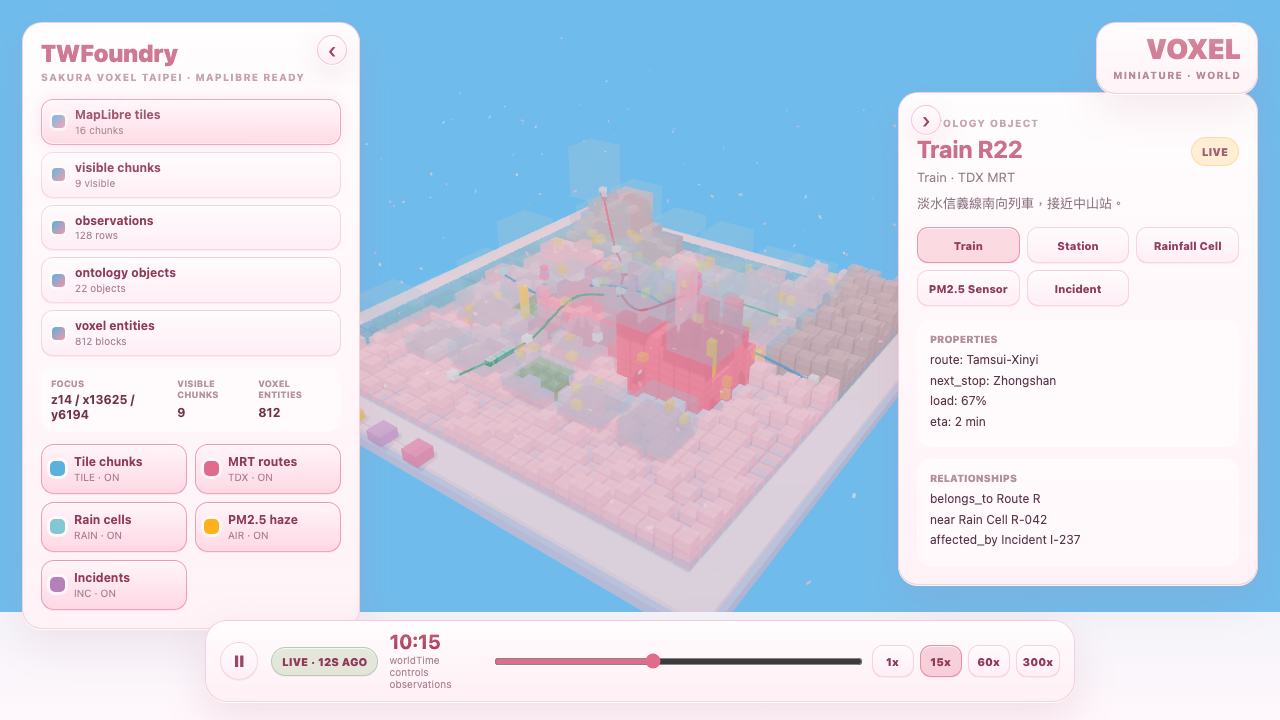
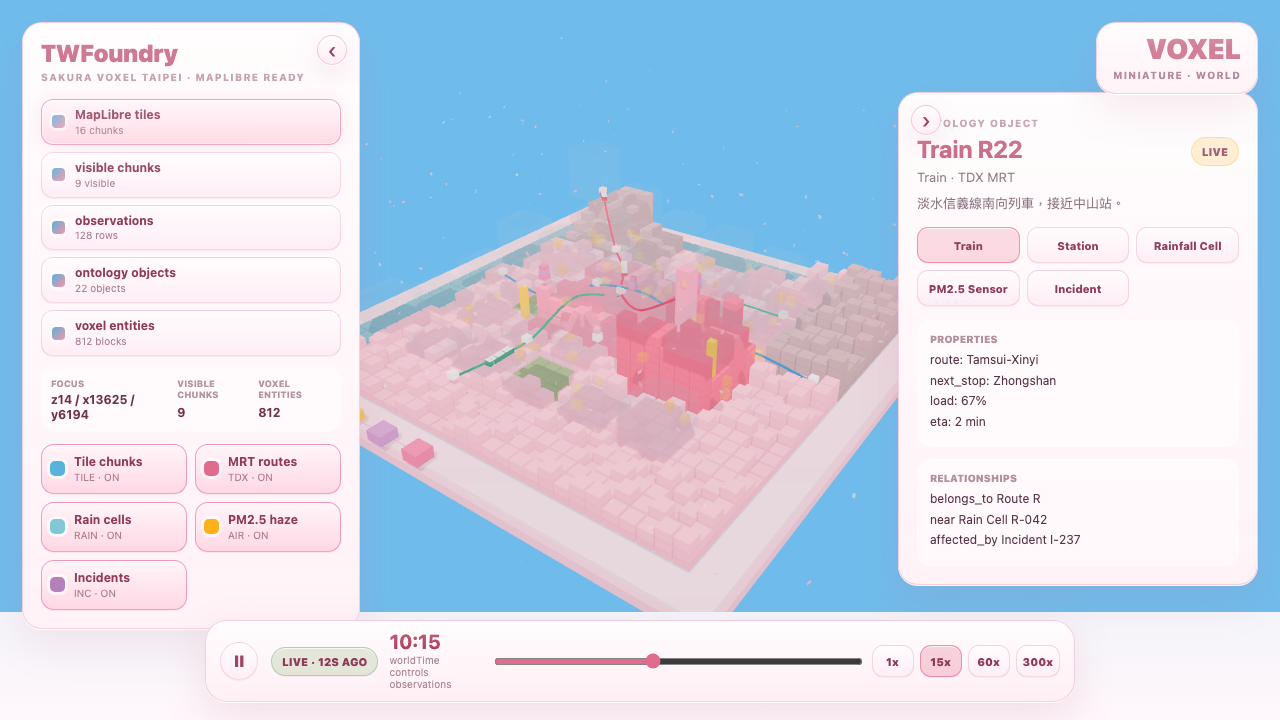
Restore solid voxel styling

diff --git a/experiments/codex-maplibre-sakura-voxel-v1/src/voxelWorld.js b/experiments/codex-maplibre-sakura-voxel-v1/src/voxelWorld.js
@@ -140,7 +140,7 @@ export class VoxelWorld {
 
   initScene() {
     this.scene.background = new THREE.Color(COLORS.sky);
-    this.scene.fog = new THREE.FogExp2(COLORS.sakuraMist, 0.008);
+    this.scene.fog = new THREE.FogExp2(COLORS.sakuraMist, 0.0035);
 
     this.ambient = new THREE.AmbientLight('#FFF7FA', 1.18);
     this.scene.add(this.ambient);
@@ -216,25 +216,15 @@ export class VoxelWorld {
   buildTileLayer() {
     const group = new THREE.Group();
     const plate = box(GRID * CELL + 7, 0.7, GRID * CELL + 7, COLORS.base, {
-      glass: true,
-      opacity: 0.82,
-      transmission: 0.24,
-      roughness: 0.32,
       emissive: '#FFD2DC',
-      emissiveIntensity: 0.04,
-      depthWrite: true,
+      emissiveIntensity: 0.025,
     });
     plate.position.y = -0.45;
     group.add(plate);
 
     const rim = box(GRID * CELL + 8.2, 1.1, GRID * CELL + 8.2, '#EFB9CC', {
-      glass: true,
-      opacity: 0.68,
-      transmission: 0.3,
-      roughness: 0.28,
       emissive: '#F596AA',
-      emissiveIntensity: 0.04,
-      depthWrite: true,
+      emissiveIntensity: 0.02,
     });
     rim.position.y = -1.15;
     group.add(rim);
@@ -302,19 +292,16 @@ export class VoxelWorld {
 
     const dummy = new THREE.Object3D();
     Object.entries(buckets).forEach(([type, cells]) => {
-      const glassProfile = {
-        river: { opacity: 0.58, transmission: 0.44, roughness: 0.12, emissiveIntensity: 0.1 },
-        park: { opacity: 0.72, transmission: 0.2, roughness: 0.26, emissiveIntensity: 0.03 },
-        urban: { opacity: 0.82, transmission: 0.22, roughness: 0.22, emissiveIntensity: 0.055 },
-        dense: { opacity: 0.84, transmission: 0.2, roughness: 0.22, emissiveIntensity: 0.075 },
-        tall: { opacity: 0.88, transmission: 0.18, roughness: 0.2, emissiveIntensity: 0.12 },
-        hill: { opacity: 0.72, transmission: 0.16, roughness: 0.34, emissiveIntensity: 0.025 },
-      }[type];
       const mesh = new THREE.InstancedMesh(geom, makeMat(typeColor[type], {
-        glass: true,
-        ...glassProfile,
         emissive: type === 'river' ? COLORS.water : typeColor[type],
-        depthWrite: true,
+        emissiveIntensity: {
+          river: 0.06,
+          park: 0.015,
+          urban: 0.025,
+          dense: 0.035,
+          tall: 0.065,
+          hill: 0.012,
+        }[type],
       }), cells.length);
       mesh.castShadow = true;
       mesh.receiveShadow = true;
@@ -332,13 +319,8 @@ export class VoxelWorld {
     });
 
     const tower = box(CELL * 0.9, 14, CELL * 0.9, '#F58CA5', {
-      glass: true,
-      opacity: 0.76,
-      transmission: 0.2,
-      roughness: 0.18,
       emissive: '#F596AA',
-      emissiveIntensity: 0.16,
-      depthWrite: true,
+      emissiveIntensity: 0.08,
     });
     const [twx, twz] = gridToWorld(21, 17);
     tower.position.set(twx, 7.2, twz);
@@ -379,13 +361,8 @@ export class VoxelWorld {
       const tube = new THREE.Mesh(
         new THREE.TubeGeometry(curve, 84, 0.13, 6, false),
         makeMat(line.color, {
-          glass: true,
-          opacity: 0.84,
-          transmission: 0.22,
-          roughness: 0.2,
           emissive: line.color,
-          emissiveIntensity: 0.24,
-          depthWrite: true,
+          emissiveIntensity: 0.18,
         }),
       );
       group.add(tube);
@@ -395,13 +372,8 @@ export class VoxelWorld {
         const object = ontologyObjects.find((item) => item.id === line.objectId) ?? ontologyObjects[1];
         const [wx, wz] = gridToWorld(gx, gz);
         const station = box(0.9, 0.76, 0.9, '#FFFFFF', {
-          glass: true,
-          opacity: 0.82,
-          transmission: 0.5,
-          roughness: 0.16,
           emissive: line.color,
-          emissiveIntensity: 0.32,
-          depthWrite: true,
+          emissiveIntensity: 0.18,
         });
         station.position.set(wx, this.heightAt(gx, gz) + 1.45, wz);
         station.userData.twObject = object;
@@ -426,21 +398,13 @@ export class VoxelWorld {
     const group = new THREE.Group();
     for (let i = 0; i < 3; i++) {
       const car = box(0.78, 0.56, 1.18, color, {
-        glass: true,
-        opacity: 0.82,
-        transmission: 0.32,
-        roughness: 0.2,
         emissive: color,
-        emissiveIntensity: 0.14,
-        depthWrite: true,
+        emissiveIntensity: 0.1,
       });
       car.position.z = (i - 1) * 1.26;
       const roof = box(0.8, 0.08, 1.12, '#FFFFFF', {
-        glass: true,
-        opacity: 0.78,
-        transmission: 0.58,
-        roughness: 0.12,
-        depthWrite: true,
+        emissive: '#FFF7FA',
+        emissiveIntensity: 0.04,
       });
       roof.position.set(0, 0.34, car.position.z);
       group.add(car, roof);
@@ -460,11 +424,11 @@ export class VoxelWorld {
         const h = 1.2 + rng() * 6 * (1.35 - z / 7);
         const bar = box(5.4, 1, 5.4, COLORS.water, {
           glass: true,
-          opacity: 0.28,
-          transmission: 0.68,
+          opacity: 0.12,
+          transmission: 0.76,
           roughness: 0.08,
           emissive: '#81C7D4',
-          emissiveIntensity: 0.12,
+          emissiveIntensity: 0.055,
         });
         bar.position.set(wx, base + h / 2, wz);
         bar.scale.y = h;
@@ -487,11 +451,11 @@ export class VoxelWorld {
       const [wx, wz] = gridToWorld(gx, gz);
       const puff = box(0.55 + rng() * 0.5, 0.55 + rng() * 0.5, 0.55 + rng() * 0.5, rng() > 0.55 ? COLORS.gold : '#F7D94C', {
         glass: true,
-        opacity: 0.44,
+        opacity: 0.34,
         transmission: 0.36,
         roughness: 0.24,
         emissive: '#FFD966',
-        emissiveIntensity: 0.1,
+        emissiveIntensity: 0.075,
       });
       puff.position.set(wx, this.heightAt(gx, gz) + 2.2 + rng() * 5, wz);
       puff.userData = { phase: rng() * Math.PI * 2, drift: 0.2 + rng() * 0.5, twObject: ontologyObjects[3] };
@@ -503,13 +467,8 @@ export class VoxelWorld {
     [[9, 18], [18, 12], [24, 19]].forEach(([gx, gz]) => {
       const [wx, wz] = gridToWorld(gx, gz);
       const sensor = box(0.78, 4.2, 0.78, COLORS.gold, {
-        glass: true,
-        opacity: 0.78,
-        transmission: 0.28,
-        roughness: 0.2,
         emissive: COLORS.gold,
-        emissiveIntensity: 0.18,
-        depthWrite: true,
+        emissiveIntensity: 0.12,
       });
       sensor.position.set(wx, this.heightAt(gx, gz) + 2.1, wz);
       sensor.userData.twObject = ontologyObjects[3];
@@ -527,13 +486,8 @@ export class VoxelWorld {
       const marker = new THREE.Group();
       for (let y = 0; y < 3; y++) {
         const m = box(0.92 - y * 0.08, 0.52, 0.92 - y * 0.08, y === 1 ? COLORS.fuji : COLORS.rose, {
-          glass: true,
-          opacity: 0.82,
-          transmission: 0.24,
-          roughness: 0.2,
           emissive: y === 1 ? COLORS.fuji : COLORS.rose,
-          emissiveIntensity: 0.2,
-          depthWrite: true,
+          emissiveIntensity: 0.14,
         });
         m.position.y = y * 0.58;
         marker.add(m);
@@ -554,13 +508,8 @@ export class VoxelWorld {
     const colors = [COLORS.skyDeep, COLORS.water, COLORS.gold, COLORS.fuji, COLORS.rose];
     keys.forEach((key, index) => {
       const node = box(2.1, 0.75 + index * 0.14, 2.1, colors[index], {
-        glass: true,
-        opacity: 0.78,
-        transmission: 0.34,
-        roughness: 0.18,
         emissive: colors[index],
-        emissiveIntensity: 0.08,
-        depthWrite: true,
+        emissiveIntensity: 0.06,
       });
       node.position.set(-22 + index * 5.3, 1.1 + index * 0.08, 31.5);
       node.userData = {
@@ -596,22 +545,12 @@ export class VoxelWorld {
     const group = new THREE.Group();
     const [wx, wz] = gridToWorld(16, 19);
     const body = box(0.85, 0.95, 0.85, '#FFF9FB', {
-      glass: true,
-      opacity: 0.84,
-      transmission: 0.48,
-      roughness: 0.15,
       emissive: COLORS.sakuraMid,
-      emissiveIntensity: 0.22,
-      depthWrite: true,
+      emissiveIntensity: 0.12,
     });
     const head = box(0.64, 0.64, 0.64, COLORS.sakuraHot, {
-      glass: true,
-      opacity: 0.82,
-      transmission: 0.34,
-      roughness: 0.18,
       emissive: COLORS.sakuraHot,
-      emissiveIntensity: 0.14,
-      depthWrite: true,
+      emissiveIntensity: 0.08,
     });
     body.position.y = 0.48;
     head.position.y = 1.28;
@@ -851,7 +790,7 @@ export class VoxelWorld {
 
     const fog = new THREE.Color('#2C3260').lerp(new THREE.Color(COLORS.sakuraMist), daylight).lerp(new THREE.Color('#F8C5D6'), twilight * 0.35);
     this.scene.fog.color.copy(fog);
-    this.scene.fog.density = 0.006 + night * 0.007 + twilight * 0.002;
+    this.scene.fog.density = 0.0025 + night * 0.006 + twilight * 0.0018;
 
     this.ambient.color.set(new THREE.Color('#AFC8FF').lerp(new THREE.Color('#FFF7FA'), daylight).lerp(new THREE.Color('#FFD6E4'), twilight * 0.35));
     this.ambient.intensity = 0.54 + daylight * 0.78 + twilight * 0.2;

diff --git a/experiments/codex-maplibre-sakura-voxel-v1/screenshots/interaction-collapse-left/page.html b/experiments/codex-maplibre-sakura-voxel-v1/screenshots/interaction-collapse-left/page.html
@@ -197,6 +197,7 @@ button {
 }
 
 .panel-toggle-right {
+  top: 104px;
   right: 22px;
 }
 
@@ -645,8 +646,8 @@ button {
 }
 </style></head>
   <body>
-    <div id="app" data-v-app=""><main class="app-shell"><div class="world-stage" aria-label="Sakura voxel Taipei 3D scene"><canvas data-engine="three.js r176" width="1280" height="612" style="display: block; touch-action: none; width: 1280px; height: 612px;"></canvas></div><button class="panel-toggle panel-toggle-left" type="button" aria-label="Open data layers panel"> Layers </button><button class="panel-toggle panel-toggle-right hidden" type="button" aria-label="Open ontology panel"> Object </button><section class="hud hud-left collapsed"><button class="collapse-button collapse-left" type="button" aria-label="Collapse data layers panel"> ‹ </button><div class="brand-block"><div class="brand-title">TWFoundry</div><div class="brand-subtitle">SAKURA VOXEL TAIPEI · MAPLIBRE READY</div></div><div class="pipeline-strip"><button class="pipeline-node active" type="button"><span class="node-dot"></span><span class="node-copy"><strong>MapLibre tiles</strong><b>tiles</b><small>16 chunks</small></span></button><button class="pipeline-node" type="button"><span class="node-dot"></span><span class="node-copy"><strong>visible chunks</strong><b>chunks</b><small>9 visible</small></span></button><button class="pipeline-node" type="button"><span class="node-dot"></span><span class="node-copy"><strong>observations</strong><b>obs</b><small>128 rows</small></span></button><button class="pipeline-node" type="button"><span class="node-dot"></span><span class="node-copy"><strong>ontology objects</strong><b>objects</b><small>22 objects</small></span></button><button class="pipeline-node" type="button"><span class="node-dot"></span><span class="node-copy"><strong>voxel entities</strong><b>voxels</b><small>812 blocks</small></span></button></div><div class="hud-section compact-readout"><div><span>Focus</span><strong>z14 / x13625 / y6194</strong></div><div><span>Visible chunks</span><strong>9</strong></div><div><span>Voxel entities</span><strong>812</strong></div></div><div class="layer-stack"><button class="layer-pill active" type="button"><span class="layer-swatch" style="background: rgb(88, 178, 220);"></span><span class="layer-main"><strong>Tile chunks</strong><small>TILE · ON</small></span></button><button class="layer-pill active" type="button"><span class="layer-swatch" style="background: rgb(225, 107, 140);"></span><span class="layer-main"><strong>MRT routes</strong><small>TDX · ON</small></span></button><button class="layer-pill active" type="button"><span class="layer-swatch" style="background: rgb(129, 199, 212);"></span><span class="layer-main"><strong>Rain cells</strong><small>RAIN · ON</small></span></button><button class="layer-pill active" type="button"><span class="layer-swatch" style="background: rgb(255, 177, 27);"></span><span class="layer-main"><strong>PM2.5 haze</strong><small>AIR · ON</small></span></button><button class="layer-pill active" type="button"><span class="layer-swatch" style="background: rgb(180, 129, 187);"></span><span class="layer-main"><strong>Incidents</strong><small>INC · ON</small></span></button></div></section><section class="hud hud-right"><button class="collapse-button collapse-right" type="button" aria-label="Collapse ontology panel"> › </button><div class="object-kicker">ONTOLOGY OBJECT</div><div class="object-title-row"><div><h1>Train R22</h1><p>Train · TDX MRT</p></div><span class="status-chip">live</span></div><p class="object-summary">淡水信義線南向列車，接近中山站。</p><div class="object-grid"><button class="object-token active" type="button">Train</button><button class="object-token" type="button">Station</button><button class="object-token" type="button">Rainfall Cell</button><button class="object-token" type="button">PM2.5 Sensor</button><button class="object-token" type="button">Incident</button></div><div class="object-list"><div><span>Properties</span><p>route: Tamsui-Xinyi</p><p>next_stop: Zhongshan</p><p>load: 67%</p><p>eta: 2 min</p></div><div><span>Relationships</span><p>belongs_to Route R</p><p>near Rain Cell R-042</p><p>affected_by Incident I-237</p></div></div></section><section class="hud hud-top-right"><div class="corner-big">VOXEL</div><div class="corner-small">MINIATURE · WORLD</div></section><section class="timeline-hud"><button class="round-control" type="button">II</button><button class="live-chip active" type="button">live · 12s ago</button><div class="time-readout"><strong>10:35</strong><small>worldTime controls observations</small></div><input class="time-slider" type="range" min="0" max="1439" value="635" style=""><div class="speed-group"><button class="speed-button" type="button">1x </button><button class="speed-button active" type="button">15x </button><button class="speed-button" type="button">60x </button><button class="speed-button" type="button">300x </button></div></section></main></div>
-    <script type="module" src="/src/main.js?t=1777474221585"></script>
+    <div id="app" data-v-app=""><main class="app-shell"><div class="world-stage" aria-label="Sakura voxel Taipei 3D scene"><canvas data-engine="three.js r176" width="1280" height="612" style="display: block; touch-action: none; width: 1280px; height: 612px;"></canvas></div><button class="panel-toggle panel-toggle-left" type="button" aria-label="Open data layers panel"> Layers </button><button class="panel-toggle panel-toggle-right hidden" type="button" aria-label="Open ontology panel"> Object </button><section class="hud hud-left collapsed"><button class="collapse-button collapse-left" type="button" aria-label="Collapse data layers panel"> ‹ </button><div class="brand-block"><div class="brand-title">TWFoundry</div><div class="brand-subtitle">SAKURA VOXEL TAIPEI · MAPLIBRE READY</div></div><div class="pipeline-strip"><button class="pipeline-node active" type="button"><span class="node-dot"></span><span class="node-copy"><strong>MapLibre tiles</strong><b>tiles</b><small>16 chunks</small></span></button><button class="pipeline-node" type="button"><span class="node-dot"></span><span class="node-copy"><strong>visible chunks</strong><b>chunks</b><small>9 visible</small></span></button><button class="pipeline-node" type="button"><span class="node-dot"></span><span class="node-copy"><strong>observations</strong><b>obs</b><small>128 rows</small></span></button><button class="pipeline-node" type="button"><span class="node-dot"></span><span class="node-copy"><strong>ontology objects</strong><b>objects</b><small>22 objects</small></span></button><button class="pipeline-node" type="button"><span class="node-dot"></span><span class="node-copy"><strong>voxel entities</strong><b>voxels</b><small>812 blocks</small></span></button></div><div class="hud-section compact-readout"><div><span>Focus</span><strong>z14 / x13625 / y6194</strong></div><div><span>Visible chunks</span><strong>9</strong></div><div><span>Voxel entities</span><strong>812</strong></div></div><div class="layer-stack"><button class="layer-pill active" type="button"><span class="layer-swatch" style="background: rgb(88, 178, 220);"></span><span class="layer-main"><strong>Tile chunks</strong><small>TILE · ON</small></span></button><button class="layer-pill active" type="button"><span class="layer-swatch" style="background: rgb(225, 107, 140);"></span><span class="layer-main"><strong>MRT routes</strong><small>TDX · ON</small></span></button><button class="layer-pill active" type="button"><span class="layer-swatch" style="background: rgb(129, 199, 212);"></span><span class="layer-main"><strong>Rain cells</strong><small>RAIN · ON</small></span></button><button class="layer-pill active" type="button"><span class="layer-swatch" style="background: rgb(255, 177, 27);"></span><span class="layer-main"><strong>PM2.5 haze</strong><small>AIR · ON</small></span></button><button class="layer-pill active" type="button"><span class="layer-swatch" style="background: rgb(180, 129, 187);"></span><span class="layer-main"><strong>Incidents</strong><small>INC · ON</small></span></button></div></section><section class="hud hud-right"><button class="collapse-button collapse-right" type="button" aria-label="Collapse ontology panel"> › </button><div class="object-kicker">ONTOLOGY OBJECT</div><div class="object-title-row"><div><h1>Train R22</h1><p>Train · TDX MRT</p></div><span class="status-chip">live</span></div><p class="object-summary">淡水信義線南向列車，接近中山站。</p><div class="object-grid"><button class="object-token active" type="button">Train</button><button class="object-token" type="button">Station</button><button class="object-token" type="button">Rainfall Cell</button><button class="object-token" type="button">PM2.5 Sensor</button><button class="object-token" type="button">Incident</button></div><div class="object-list"><div><span>Properties</span><p>route: Tamsui-Xinyi</p><p>next_stop: Zhongshan</p><p>load: 67%</p><p>eta: 2 min</p></div><div><span>Relationships</span><p>belongs_to Route R</p><p>near Rain Cell R-042</p><p>affected_by Incident I-237</p></div></div></section><section class="hud hud-top-right"><div class="corner-big">VOXEL</div><div class="corner-small">MINIATURE · WORLD</div></section><section class="timeline-hud"><button class="round-control" type="button">II</button><button class="live-chip active" type="button">live · 12s ago</button><div class="time-readout"><strong>10:37</strong><small>worldTime controls observations</small></div><input class="time-slider" type="range" min="0" max="1439" value="637.5" style=""><div class="speed-group"><button class="speed-button" type="button">1x </button><button class="speed-button active" type="button">15x </button><button class="speed-button" type="button">60x </button><button class="speed-button" type="button">300x </button></div></section></main></div>
+    <script type="module" src="/src/main.js?t=1777475873946"></script>
   
 
 </body></html>

diff --git a/experiments/codex-maplibre-sakura-voxel-v1/screenshots/desktop/page.html b/experiments/codex-maplibre-sakura-voxel-v1/screenshots/desktop/page.html
@@ -197,6 +197,7 @@ button {
 }
 
 .panel-toggle-right {
+  top: 104px;
   right: 22px;
 }
 
@@ -646,7 +647,7 @@ button {
 </style></head>
   <body>
     <div id="app" data-v-app=""><main class="app-shell"><div class="world-stage" aria-label="Sakura voxel Taipei 3D scene"><canvas data-engine="three.js r176" width="1280" height="612" style="display: block; touch-action: none; width: 1280px; height: 612px;"></canvas></div><button class="panel-toggle panel-toggle-left hidden" type="button" aria-label="Open data layers panel"> Layers </button><button class="panel-toggle panel-toggle-right hidden" type="button" aria-label="Open ontology panel"> Object </button><section class="hud hud-left"><button class="collapse-button collapse-left" type="button" aria-label="Collapse data layers panel"> ‹ </button><div class="brand-block"><div class="brand-title">TWFoundry</div><div class="brand-subtitle">SAKURA VOXEL TAIPEI · MAPLIBRE READY</div></div><div class="pipeline-strip"><button class="pipeline-node active" type="button"><span class="node-dot"></span><span class="node-copy"><strong>MapLibre tiles</strong><b>tiles</b><small>16 chunks</small></span></button><button class="pipeline-node" type="button"><span class="node-dot"></span><span class="node-copy"><strong>visible chunks</strong><b>chunks</b><small>9 visible</small></span></button><button class="pipeline-node" type="button"><span class="node-dot"></span><span class="node-copy"><strong>observations</strong><b>obs</b><small>128 rows</small></span></button><button class="pipeline-node" type="button"><span class="node-dot"></span><span class="node-copy"><strong>ontology objects</strong><b>objects</b><small>22 objects</small></span></button><button class="pipeline-node" type="button"><span class="node-dot"></span><span class="node-copy"><strong>voxel entities</strong><b>voxels</b><small>812 blocks</small></span></button></div><div class="hud-section compact-readout"><div><span>Focus</span><strong>z14 / x13625 / y6194</strong></div><div><span>Visible chunks</span><strong>9</strong></div><div><span>Voxel entities</span><strong>812</strong></div></div><div class="layer-stack"><button class="layer-pill active" type="button"><span class="layer-swatch" style="background: rgb(88, 178, 220);"></span><span class="layer-main"><strong>Tile chunks</strong><small>TILE · ON</small></span></button><button class="layer-pill active" type="button"><span class="layer-swatch" style="background: rgb(225, 107, 140);"></span><span class="layer-main"><strong>MRT routes</strong><small>TDX · ON</small></span></button><button class="layer-pill active" type="button"><span class="layer-swatch" style="background: rgb(129, 199, 212);"></span><span class="layer-main"><strong>Rain cells</strong><small>RAIN · ON</small></span></button><button class="layer-pill active" type="button"><span class="layer-swatch" style="background: rgb(255, 177, 27);"></span><span class="layer-main"><strong>PM2.5 haze</strong><small>AIR · ON</small></span></button><button class="layer-pill active" type="button"><span class="layer-swatch" style="background: rgb(180, 129, 187);"></span><span class="layer-main"><strong>Incidents</strong><small>INC · ON</small></span></button></div></section><section class="hud hud-right"><button class="collapse-button collapse-right" type="button" aria-label="Collapse ontology panel"> › </button><div class="object-kicker">ONTOLOGY OBJECT</div><div class="object-title-row"><div><h1>Train R22</h1><p>Train · TDX MRT</p></div><span class="status-chip">live</span></div><p class="object-summary">淡水信義線南向列車，接近中山站。</p><div class="object-grid"><button class="object-token active" type="button">Train</button><button class="object-token" type="button">Station</button><button class="object-token" type="button">Rainfall Cell</button><button class="object-token" type="button">PM2.5 Sensor</button><button class="object-token" type="button">Incident</button></div><div class="object-list"><div><span>Properties</span><p>route: Tamsui-Xinyi</p><p>next_stop: Zhongshan</p><p>load: 67%</p><p>eta: 2 min</p></div><div><span>Relationships</span><p>belongs_to Route R</p><p>near Rain Cell R-042</p><p>affected_by Incident I-237</p></div></div></section><section class="hud hud-top-right"><div class="corner-big">VOXEL</div><div class="corner-small">MINIATURE · WORLD</div></section><section class="timeline-hud"><button class="round-control" type="button">II</button><button class="live-chip active" type="button">live · 11s ago</button><div class="time-readout"><strong>10:20</strong><small>worldTime controls observations</small></div><input class="time-slider" type="range" min="0" max="1439" value="620" style=""><div class="speed-group"><button class="speed-button" type="button">1x </button><button class="speed-button active" type="button">15x </button><button class="speed-button" type="button">60x </button><button class="speed-button" type="button">300x </button></div></section></main></div>
-    <script type="module" src="/src/main.js?t=1777474221585"></script>
+    <script type="module" src="/src/main.js?t=1777475653690"></script>
   
 
 </body></html>

diff --git a/Design.md b/Design.md
@@ -517,8 +517,9 @@ Sensor object 應顯示：
 - 世界需要有可見底座與邊界，像立體模型被放在眼前。
 - 3D material 產生層次
 - UI panel 像遊戲 HUD：輕、圓、柔和、可讀。
-- Panel / HUD 不應過度水晶化或琉璃化；它們要保持清楚、可讀、柔和，像 RPG 操作介面。
-- 半透明琉璃感 / 水晶感主要屬於 voxel world：城市方塊、資料 volume、列車、感測器、事件 marker 可以少量使用。
+- Panel / HUD 不應水晶化或琉璃化；它們要保持清楚、可讀、柔和，像 RPG 操作介面。
+- Voxel city 的主體必須是實體方塊，不能大面積透明。實心量體讓臺北微縮模型更清楚、更像可觸摸的掌中世界。
+- 半透明琉璃感 / 水晶感只適合少量用在資料 volume、雨量、PM2.5、selection halo、地圖 tile preview 等 overlay，不應套在整個城市、列車或站點上。
 - 重要 operational state 保持高辨識度，不用恐怖或壓迫的警示色。
 
 ## Color System

diff --git a/experiments/codex-maplibre-sakura-voxel-v1/README.md b/experiments/codex-maplibre-sakura-voxel-v1/README.md
@@ -31,6 +31,7 @@
 ## Interaction Repair Changes
 
 - 依照新的設計回饋，HUD / inspector / timeline 改回柔和紙感粉色 panel，不再強調水晶或琉璃材質；水晶感只保留在 voxel 與資料 volume。
+- 依照原始 `taipei_voxel_v3.html` 參考，城市、建築、列車、站點、路線與事件 marker 改回實體 voxel 材質；透明感只保留在雨量、PM2.5、tile preview 等資料 overlay。
 - OrbitControls 明確啟用 pan、rotate、zoom，並把 `maxDistance` 放寬到 205，讓視角不被鎖在正中央。
 - Camera controls 改成左鍵拖曳平移、右鍵拖曳旋轉、滾輪縮放，讓使用者可以把掌中世界往上、下、左、右移動，而不是只能繞中心旋轉。
 - 長距離拖曳會被判定為 camera gesture，不再在 pointer release 後觸發 canvas click / object focus，避免拖動時突然跳到另一個物件。